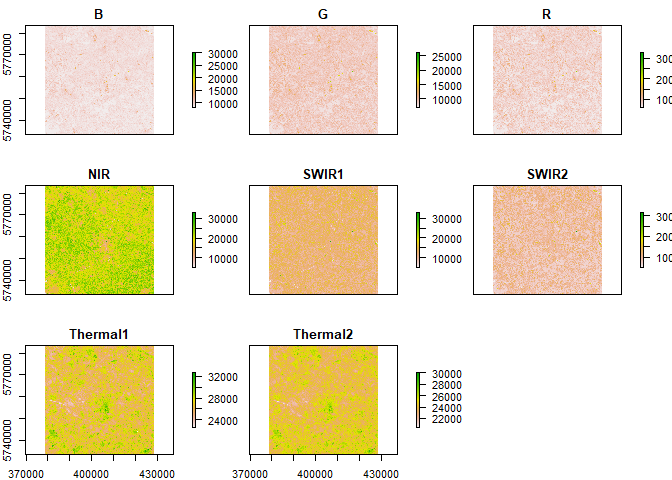
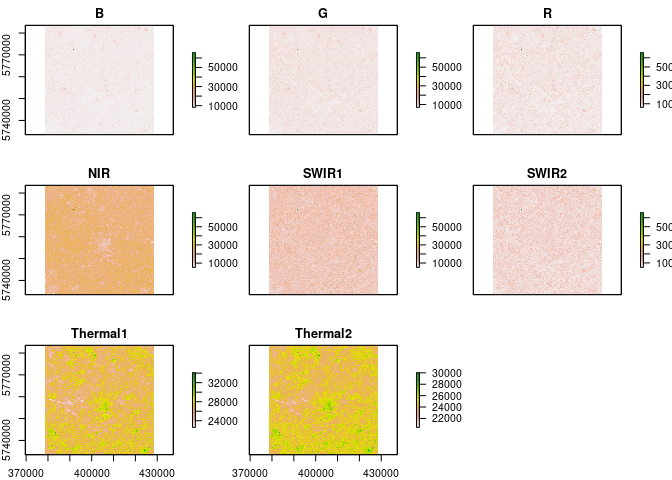
Preparation to calculate daily ET for timeseries data

diff --git a/README.md b/README.md
@@ -161,8 +161,10 @@ L8 = loadImage(path = "data/L8_C2/", sat = "L8", aoi = aoi)
 
 ``` r
 L8 = remove_negatives(L8)
-# plot(L8)
+plot(L8)
 ```
+
+![](README_files/figure-gfm/unnamed-chunk-5-1.png)<!-- -->
 
 ## Load Surface Reflectance data
 
@@ -196,8 +198,10 @@ L8.SR = loadSR(path = "data/L8_C2/SR/", aoi = aoi)
 ``` r
 L8.SR = remove_negatives(L8.SR)
 L8.SR = L8_SR(L8.SR)
-# plot(L8.SR)
+plot(L8.SR)
 ```
+
+![](README_files/figure-gfm/unnamed-chunk-6-1.png)<!-- -->
 
 ## Load Digital Elevation Model
 
@@ -245,8 +249,12 @@ plot(Rs.inc, main = "Incident short-wave radiation", legend.args = list(text = '
 
 ``` r
 image.TOAr = calcTOAr(image.DN = L8, sat = "L8", MTL = MTLfile, incidence.rel = solar.angles.r$incidence.rel, aoi = aoi)
-# plot(image.TOAr)
+plot(image.TOAr)
+```
 
+![](README_files/figure-gfm/unnamed-chunk-10-1.png)<!-- -->
+
+``` r
 # image.SR = calcSR(image.TOAr = image.TOAr, sat = "L7", surface.model = surface.model, incidence.hor = solar.angles.r$incidence.hor, WeatherStation = WeatherStation)
 ```
 
